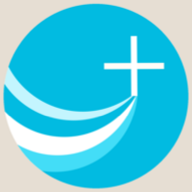
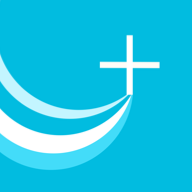
fixes, tamaño y tipo de letra, y los iconos son cuadrados

diff --git a/rezar.html b/rezar.html
@@ -764,7 +764,8 @@ body.light{--tb-circle-bg:var(--card);--tb-circle-border:var(--border);--tb-icon
       <div class="maria-placeholder">🙏</div>
       <h2 class="celebration-title" id="celeb-title"></h2>
       <p class="celebration-sub" id="celeb-sub"></p>
-      <button class="btn btn-primary btn-block" id="btn-celeb-home">Regresar a Orar</button>
+      <button class="btn btn-primary btn-block" id="btn-celeb-home" style="margin-bottom:12px">Siguiente</button>
+      <button class="btn btn-secondary btn-block" id="btn-celeb-index" style="opacity:0.7">Ir al inicio</button>
     </div>
   </div>
 
@@ -1588,6 +1589,12 @@ async function completeMystery(){
     await FS.collection('users').doc(usr.uid).collection('audioProgress').doc('current')
       .set({nivel,cuaderno:cua,misterio:mNum(blk,bIdx)},{merge:true});
   }catch(e){}
+  try{
+    await FS.collection('users').doc(usr.uid).collection('bookmark').doc('current')
+      .set({nivelId,nivel,cuaderno:cua,bloque:blk,misterio:mNum(blk,bIdx),
+            modo:'rezar',savedAt:new Date()},{merge:true});
+  }catch(e){}
+  try{localStorage.setItem('cruzando_progress_cache_dirty','true');}catch(_){}
   renderMysteryDots();
   if(dots.every(Boolean)){
     setTimeout(async()=>{
@@ -1655,13 +1662,44 @@ function showFinalLayout(type){
   $('final-layout-text').innerHTML=txt;
   show('scr-letanias');
   updatePlayBtn();
+  // Los misterios ya están guardados — actualizar texto del modal de salida
+  var exitTitle   = document.getElementById('exit-modal-title');
+  var exitSub     = document.getElementById('exit-modal-sub');
+  var exitConfirm = document.getElementById('exit-btn-confirm');
+  var exitCancel  = document.getElementById('exit-btn-cancel');
+  if(exitTitle)   exitTitle.textContent  = 'Oraciones finales';
+  if(exitSub)     exitSub.innerHTML      = 'Tus 5 Misterios ya están guardados.<br>¿Deseas salir ahora?';
+  if(exitConfirm) exitConfirm.textContent = 'Sí, salir';
+  if(exitCancel)  exitCancel.textContent  = 'Continuar';
 }
 
 function onSessionComplete(){
   if(window.CZSound)CZSound('blockClear');
-  $('celeb-title').textContent='¡Rosario completado!';
-  $('celeb-sub').textContent='Has rezado los 5 Misterios '+BN[blk].toLowerCase()+'. ¡Buen camino, peregrino!';
-  $('btn-celeb-home').onclick=()=>goTo('orar.html?c='+nivelId);
+
+  var blkIdx   = BLOCKS.indexOf(blk);
+  var nextBlk  = BLOCKS[blkIdx + 1] || null;
+  var nextUrl  = nextBlk
+    ? ('rezar.html?c=' + nivelId + '&b=' + nextBlk + '&m=' + (BFM[nextBlk] || 1))
+    : null;
+
+  $('celeb-title').textContent = '¡Rosario completado!';
+  $('celeb-sub').textContent   = 'Has rezado los 5 Misterios ' + BN[blk].toLowerCase() + '. ¡Buen camino, peregrino!';
+
+  var btnPrimary = $('btn-celeb-home');
+  if(nextUrl){
+    btnPrimary.textContent = 'Rezar ' + BN[nextBlk];
+    btnPrimary.onclick     = ()=>goTo(nextUrl);
+  } else {
+    btnPrimary.textContent = 'Ir al inicio';
+    btnPrimary.onclick     = ()=>goTo('index.html');
+  }
+
+  var btnSec = $('btn-celeb-index');
+  if(btnSec){
+    btnSec.style.display = nextUrl ? '' : 'none';
+    btnSec.onclick       = ()=>goTo('index.html');
+  }
+
   show('scr-celebration');
 }
 

diff --git a/sanar.html b/sanar.html
@@ -298,7 +298,7 @@ body.light .card-prog-wrap { background:rgba(0,0,0,0.08); }
   margin-bottom:12px; text-transform:uppercase;
 }
 .tarjeta-titulo {
-  font-family:'Crimson Pro',Georgia,serif; font-size:26px; font-weight:600;
+  font-family:'Crimson Pro',Georgia,serif; font-size:36px; font-weight:600;
   color:var(--text); margin-bottom:8px; line-height:1.3;
 }
 .tarjeta-info {
@@ -340,7 +340,7 @@ body.light .card-prog-wrap { background:rgba(0,0,0,0.08); }
   text-align:center; position:relative; z-index:1;
 }
 .tarjeta-titulo-hero {
-  font-family:'Cormorant Garamond',Georgia,serif; font-size:30px; font-weight:600;
+  font-family:'Cormorant Garamond',Georgia,serif; font-size:36px; font-weight:600;
   color:white; line-height:1.3; margin-bottom:12px;
 }
 .tarjeta-subtexto {
@@ -351,7 +351,7 @@ body.light .card-prog-wrap { background:rgba(0,0,0,0.08); }
   overflow-y:auto; align-items:flex-start; padding-top:32px;
 }
 .tarjeta-texto-lora {
-  font-family:'Crimson Pro',Georgia,serif; font-size:19px;
+  font-family:'Crimson Pro',Georgia,serif; font-size:36px;
   line-height:1.7; color:var(--text); margin-bottom:24px;
 }
 .tarjeta-texto-cita {
@@ -384,7 +384,7 @@ body.light .card-prog-wrap { background:rgba(0,0,0,0.08); }
 .btn-amen {
   background:white; color:#0d0d1a;
   border:none; border-radius:24px; padding:16px 40px;
-  font-family:'Cormorant Garamond',Georgia,serif; font-size:20px; font-weight:600;
+  font-family:'Cormorant Garamond',Georgia,serif; font-size:26px; font-weight:600;
   cursor:pointer; width:100%; max-width:280px; margin-top:32px;
 }
 .pregunta-bloque { margin-bottom:24px; }
@@ -392,7 +392,7 @@ body.light .card-prog-wrap { background:rgba(0,0,0,0.08); }
   width:100%; min-height:100px; border-radius:12px;
   border:1.5px solid var(--border);
   background:var(--card); color:var(--text);
-  font-family:'Crimson Pro',Georgia,serif; font-size:17px; line-height:1.6;
+  font-family:'Crimson Pro',Georgia,serif; font-size:30px; line-height:1.6;
   padding:12px 16px; resize:vertical; box-sizing:border-box;
 }
 .textarea-reflexion:focus { outline:none; border-color:var(--orange); }

diff --git a/audio.html b/audio.html
@@ -854,7 +854,7 @@ body.light { --tb-circle-bg:var(--card); --tb-circle-border:var(--border); --tb-
   overscroll-behavior: contain;
   padding: 16px 20px 20px;
   font-family: 'Crimson Pro', Georgia, serif;
-  font-size: 1rem;
+  font-size: 36px;
   line-height: 1.85;
   color: var(--text-soft);
   white-space: pre-line;
@@ -991,7 +991,7 @@ body.light { --tb-circle-bg:var(--card); --tb-circle-border:var(--border); --tb-
 }
 .micro-sub {
   font-family: 'Crimson Pro', Georgia, serif;
-  font-size: 1.2rem; font-weight: 600; color: var(--text); margin-top: 2px;
+  font-size: 36px; font-weight: 600; color: var(--text); margin-top: 2px;
 }
 .micro-progress { display: flex; gap: 6px; margin-bottom: 16px; }
 .micro-dot { height: 5px; border-radius: 3px; background: var(--border); transition: all 0.4s ease; }
@@ -1005,7 +1005,7 @@ body.light { --tb-circle-bg:var(--card); --tb-circle-border:var(--border); --tb-
 .micro-card-emoji  { font-size: 2.2rem; margin-bottom: 14px; }
 .micro-card-titulo {
   font-family: 'Crimson Pro', Georgia, serif;
-  font-size: 1.55rem; font-weight: 600; color: var(--lvl-bold); line-height: 1.2; margin-bottom: 12px;
+  font-size: 36px; font-weight: 600; color: var(--lvl-bold); line-height: 1.2; margin-bottom: 12px;
 }
 .micro-card-contenido {
   font-family: 'Crimson Pro', Georgia, serif;
@@ -1026,7 +1026,7 @@ body.light { --tb-circle-bg:var(--card); --tb-circle-border:var(--border); --tb-
 }
 .micro-q-texto {
   font-family: 'Crimson Pro', Georgia, serif;
-  font-size: 1.35rem; font-weight: 500; line-height: 1.55; color: var(--text); margin-bottom: 20px;
+  font-size: 36px; font-weight: 500; line-height: 1.7; color: var(--text); margin-bottom: 20px;
 }
 .micro-option {
   width: 100%; padding: 13px 16px; border-radius: 14px;

diff --git a/diario.html b/diario.html
@@ -391,7 +391,7 @@ body {
 
 .card-pregunta {
   font-family:'Crimson Pro', Georgia, serif;
-  font-size:1.15rem; font-weight:500;
+  font-size:26px; font-weight:500;
   color:var(--orange);
   font-style:italic;
   margin-bottom:8px;
@@ -405,8 +405,8 @@ body {
 }
 
 .card-text {
-  font-family:'Crimson Pro',serif;
-  font-size:22px; font-weight:500;
+  font-family:'Crimson Pro',Georgia,serif;
+  font-size:36px; font-weight:500;
   color:var(--text);
   line-height:1.7;
   border-left:2px solid var(--border);
